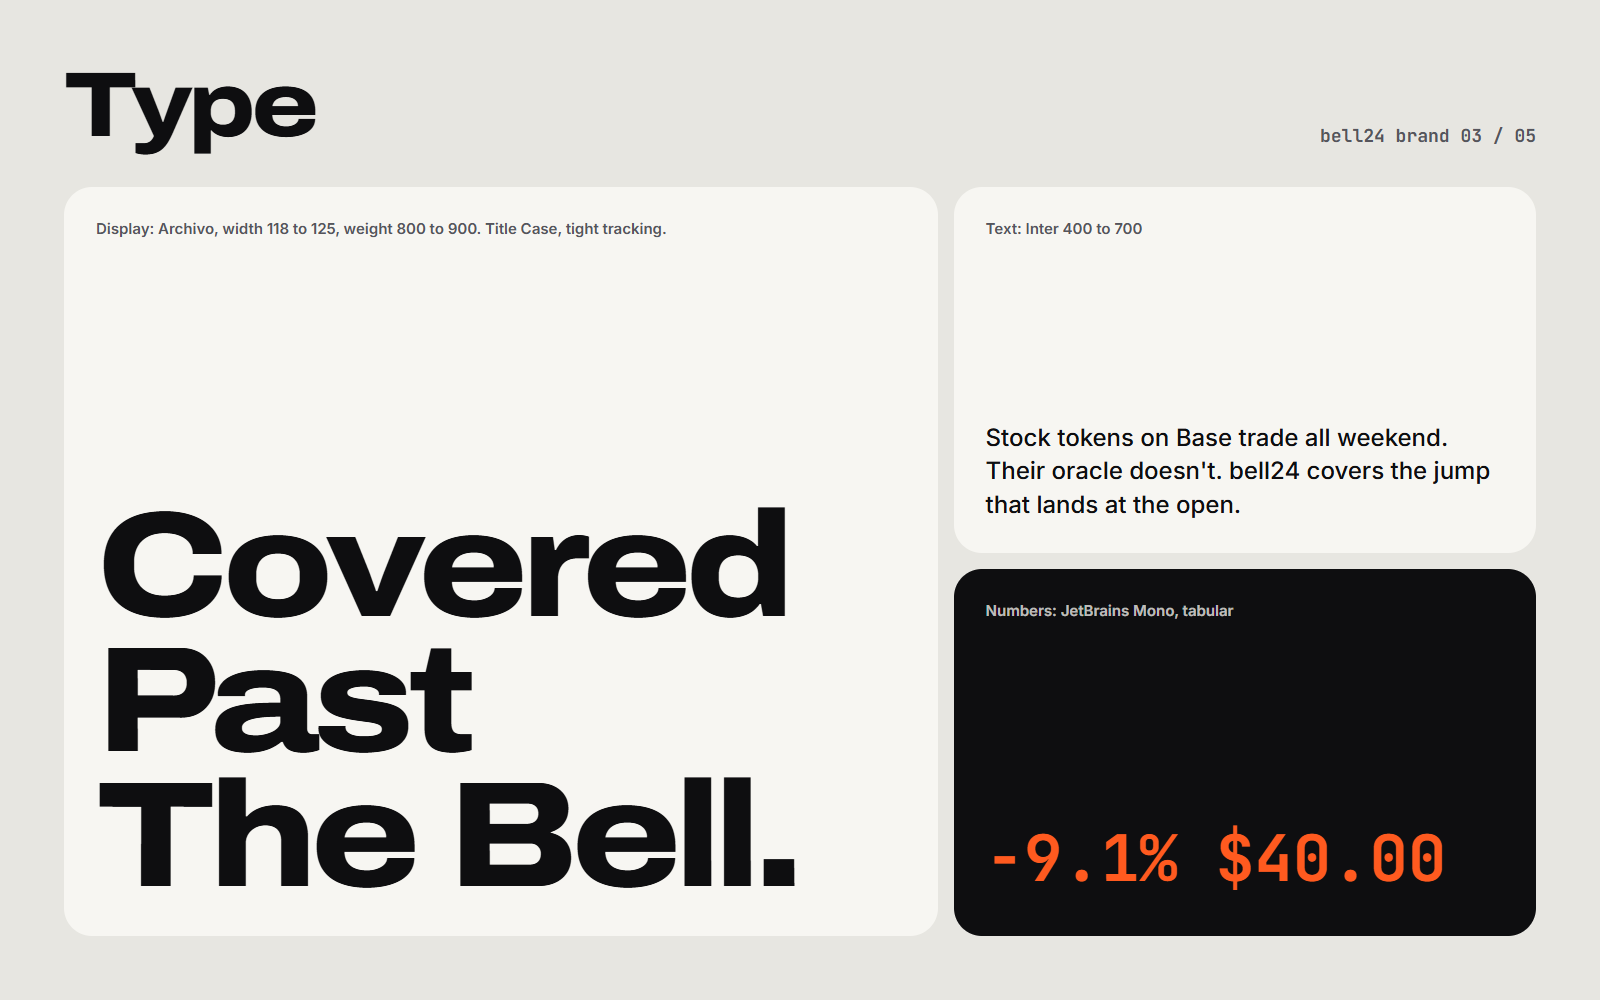
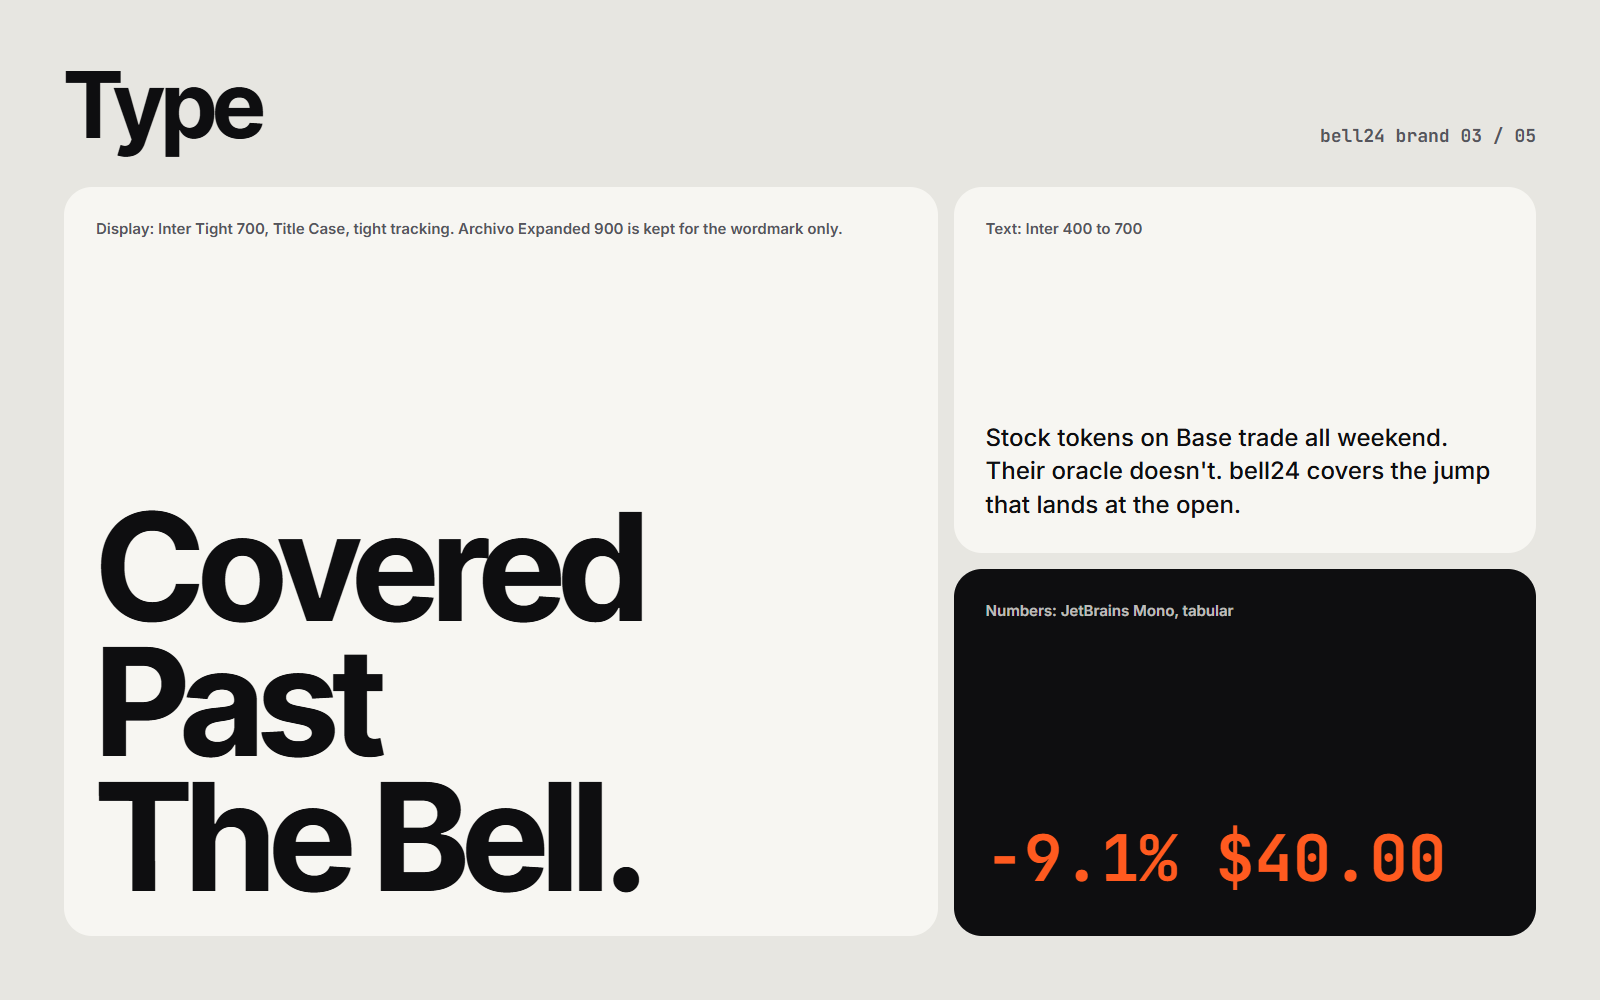
feat: inter tight for display type, archivo kept for the wordmark

diff --git a/web/src/index.css b/web/src/index.css
@@ -9,7 +9,8 @@
   --orange: #ff5a1f;
   --orange-soft: #ffe2d6;
   --r: 22px;
-  --display: 'Archivo', 'Inter', system-ui, sans-serif;
+  --display: 'Inter Tight', 'Inter', system-ui, sans-serif;
+  --wordmark: 'Archivo', 'Inter Tight', system-ui, sans-serif;
   --sans: 'Inter', system-ui, -apple-system, sans-serif;
   --mono: 'JetBrains Mono', ui-monospace, monospace;
   --gutter: clamp(16px, 3vw, 40px);
@@ -43,9 +44,8 @@ h1,
 h2,
 h3 {
   font-family: var(--display);
-  font-variation-settings: 'wdth' 116;
-  font-weight: 760;
-  letter-spacing: -0.035em;
+  font-weight: 700;
+  letter-spacing: -0.028em;
   line-height: 0.95;
   margin: 0;
 }
@@ -158,7 +158,7 @@ button {
   display: inline-flex;
   align-items: center;
   gap: 0.36em;
-  font-family: var(--display);
+  font-family: var(--wordmark);
   font-variation-settings: 'wdth' 125;
   font-weight: 900;
   letter-spacing: -0.04em;
@@ -297,10 +297,9 @@ button {
   background: radial-gradient(circle at 0 0, transparent calc(var(--nr) - 0.5px), var(--bg) var(--nr));
 }
 .hero-title {
-  font-size: clamp(46px, 8.2vw, 132px);
+  font-size: clamp(52px, 9.4vw, 150px);
   font-weight: 700;
-  font-variation-settings: 'wdth' 112;
-  letter-spacing: -0.04em;
+  letter-spacing: -0.035em;
   line-height: 0.92;
 }
 /* Room for descenders (g, p) inside SplitText's line masks, without changing the line spacing. */
@@ -417,7 +416,7 @@ button {
   padding: 18px 0;
 }
 .stat-v {
-  font: 800 clamp(52px, 5vw, 76px) / 0.9 var(--display);
+  font: 700 clamp(52px, 5vw, 76px) / 0.9 var(--display);
   font-variation-settings: 'wdth' 120;
   letter-spacing: -0.05em;
 }
@@ -478,7 +477,7 @@ button {
   min-width: 0;
 }
 .tk b {
-  font: 800 14px var(--display);
+  font: 700 14px var(--display);
   font-variation-settings: 'wdth' 112;
 }
 .tk i {
@@ -582,7 +581,7 @@ button {
   align-items: center;
   gap: 10px;
   padding: 0 34px;
-  font: 800 22px/1 var(--display);
+  font: 700 22px/1 var(--display);
   font-variation-settings: 'wdth' 112;
   letter-spacing: -0.03em;
   color: var(--ink);
@@ -607,7 +606,7 @@ button {
   display: flex;
   flex-direction: column;
   font-size: clamp(40px, 7.2vw, 124px);
-  letter-spacing: -0.05em;
+  letter-spacing: -0.035em;
   line-height: 1;
   gap: 0.06em;
   margin-bottom: clamp(48px, 6vw, 88px);
@@ -691,7 +690,7 @@ button {
 }
 .bars-title {
   fill: var(--ink);
-  font: 800 19px var(--display);
+  font: 700 19px var(--display);
   font-variation-settings: 'wdth' 115;
   letter-spacing: -0.02em;
 }
@@ -942,7 +941,7 @@ button {
   border-radius: 16px;
   border: 1.5px solid var(--line);
   background: transparent;
-  font: 800 26px/1 var(--display);
+  font: 700 26px/1 var(--display);
   font-variation-settings: 'wdth' 116;
   letter-spacing: -0.03em;
   transition:
@@ -1001,7 +1000,7 @@ button {
 }
 .aud-panel blockquote {
   margin: 0;
-  font: 800 clamp(24px, 2.4vw, 34px) / 1.06 var(--display);
+  font: 700 clamp(24px, 2.4vw, 34px) / 1.06 var(--display);
   font-variation-settings: 'wdth' 112;
   letter-spacing: -0.03em;
 }
@@ -1021,7 +1020,7 @@ button {
   display: flex;
   align-items: center;
   gap: 10px;
-  font: 800 20px var(--display);
+  font: 700 20px var(--display);
   font-variation-settings: 'wdth' 112;
 }
 .avh-logo {
@@ -1181,7 +1180,7 @@ button {
   color: var(--ink);
   border-radius: 10px;
   padding: 8px 12px;
-  font: 800 26px/1 var(--display);
+  font: 700 26px/1 var(--display);
   font-variation-settings: 'wdth' 118;
   letter-spacing: -0.03em;
 }
@@ -1373,7 +1372,7 @@ button {
   padding: 0 4px;
 }
 .foot-word {
-  font: 900 clamp(100px, 23vw, 360px) / 0.78 var(--display);
+  font: 900 clamp(100px, 23vw, 360px) / 0.78 var(--wordmark);
   font-variation-settings: 'wdth' 125;
   letter-spacing: -0.06em;
   text-align: center;
@@ -1423,7 +1422,7 @@ html.is-splash body {
 .splash-word {
   display: flex;
   overflow: hidden;
-  font: 900 clamp(56px, 9vw, 120px) / 1 var(--display);
+  font: 900 clamp(56px, 9vw, 120px) / 1 var(--wordmark);
   font-variation-settings: 'wdth' 125;
   letter-spacing: -0.05em;
   padding-bottom: 0.08em;

diff --git a/brand/source/kit.html b/brand/source/kit.html
@@ -16,9 +16,9 @@
   .orange { background: var(--orange); color: #fff; }
   .ink small, .blue small, .orange small { color: rgba(247,246,242,.75); }
   .center { align-items: center; justify-content: center; }
-  .sw b { font: 800 44px/1 'Archivo'; font-variation-settings: 'wdth' 118; letter-spacing: -0.03em; }
+  .sw b { font: 700 44px/1 'Inter Tight'; letter-spacing: -0.03em; }
   .sw code { font: 700 20px 'JetBrains Mono'; }
-  .rule { font: 700 26px/1.15 'Archivo'; font-variation-settings: 'wdth' 112; letter-spacing: -0.02em; }
+  .rule { font: 700 26px/1.15 'Inter Tight'; letter-spacing: -0.02em; }
   .x { font: 700 15px 'JetBrains Mono'; color: var(--orange); }
   canvas { position: absolute; inset: 0; width: 100%; height: 100%; }
   .btn { display: inline-flex; align-items: center; gap: 12px; height: 56px; padding: 0 24px; border-radius: 12px; background: var(--orange); color: #fff; font: 600 19px 'Inter'; }
@@ -53,7 +53,7 @@ if (s === 2) set('1.4fr 1fr 1fr', '1fr 1fr', [
 ].map(([n, h, c, u], i) => `<div class="card sw ${c === 'base' ? '' : c}" style="${i === 0 ? 'grid-row:span 2;' : ''}${c === 'base' ? 'background:#0000FF;color:#F7F6F2' : ''}${n === 'Canvas' ? 'background:#E7E6E1;outline:2px solid rgba(14,14,16,.12);outline-offset:-2px' : ''}"><small>${u}</small><div><b>${n}</b><br><code>${h}</code></div></div>`).join(''))
 
 if (s === 3) set('1.5fr 1fr', '1fr 1fr', `
-  <div class="card" style="grid-row:span 2"><small>Display: Archivo, width 118 to 125, weight 800 to 900. Title Case, tight tracking.</small><div class="display" style="font-size:150px">Covered Past<br>The Bell.</div></div>
+  <div class="card" style="grid-row:span 2"><small>Display: Inter Tight 700, Title Case, tight tracking. Archivo Expanded 900 is kept for the wordmark only.</small><div class="display" style="font-size:150px">Covered Past<br>The Bell.</div></div>
   <div class="card"><small>Text: Inter 400 to 700</small><p style="font-size:24px;margin:0;line-height:1.4">Stock tokens on Base trade all weekend. Their oracle doesn't. bell24 covers the jump that lands at the open.</p></div>
   <div class="card ink"><small>Numbers: JetBrains Mono, tabular</small><div class="mono" style="font-size:64px;font-weight:700;color:var(--orange)">−9.1%  $40.00</div></div>`)
 

diff --git a/brand/source/base.css b/brand/source/base.css
@@ -1,4 +1,4 @@
-@import url('https://fonts.googleapis.com/css2?family=Archivo:wdth,wght@112..125,500..900&family=Inter:wght@400;500;600;700&family=JetBrains+Mono:wght@500;700&display=swap');
+@import url('https://fonts.googleapis.com/css2?family=Archivo:wdth,wght@125,900&family=Inter+Tight:wght@500..800&family=Inter:wght@400;500;600;700&family=JetBrains+Mono:wght@500;700&display=swap');
 
 :root {
   --bg: #e7e6e1;
@@ -21,10 +21,9 @@ body {
   -webkit-font-smoothing: antialiased;
 }
 .display {
-  font-family: 'Archivo', sans-serif;
-  font-variation-settings: 'wdth' 118;
-  font-weight: 800;
-  letter-spacing: -0.045em;
+  font-family: 'Inter Tight', sans-serif;
+  font-weight: 700;
+  letter-spacing: -0.035em;
   line-height: 0.9;
 }
 .word {

diff --git a/web/index.html b/web/index.html
@@ -11,7 +11,7 @@
     <link rel="icon" type="image/svg+xml" href="/favicon.svg" />
     <link rel="preconnect" href="https://fonts.googleapis.com" />
     <link rel="preconnect" href="https://fonts.gstatic.com" crossorigin />
-    <link href="https://fonts.googleapis.com/css2?family=Archivo:wdth,wght@112..125,500..900&family=Inter:wght@400;500;600;700&family=JetBrains+Mono:wght@500;700&display=swap" rel="stylesheet" />
+    <link href="https://fonts.googleapis.com/css2?family=Archivo:wdth,wght@125,900&family=Inter+Tight:wght@500..800&family=Inter:wght@400;500;600;700&family=JetBrains+Mono:wght@500;700&display=swap" rel="stylesheet" />
   </head>
   <body>
     <div id="root"></div>

diff --git a/README.md b/README.md
@@ -76,7 +76,7 @@ web/src
 <p align="center"><img src="brand/kit/01-logo.png" width="49%" alt="Logo"> <img src="brand/kit/02-colour.png" width="49%" alt="Colour"></p>
 <p align="center"><img src="brand/kit/03-type.png" width="49%" alt="Type"> <img src="brand/kit/04-usage.png" width="49%" alt="Usage"></p>
 
-Signal Blue `#2B4BFF`, Gap Orange `#FF5A1F`, Ink `#0E0E10`, Paper `#F7F6F2`, Canvas `#E7E6E1`. Archivo for display, Inter for text, JetBrains Mono for numbers. Logos, the kit, banners and social art live in [`brand/`](brand).
+Signal Blue `#2B4BFF`, Gap Orange `#FF5A1F`, Ink `#0E0E10`, Paper `#F7F6F2`, Canvas `#E7E6E1`. Inter Tight for display, Inter for text, JetBrains Mono for numbers, Archivo Expanded for the wordmark only. Logos, the kit, banners and social art live in [`brand/`](brand).
 
 ## Naming
 

diff --git a/brand/README.md b/brand/README.md
@@ -28,7 +28,7 @@ The lockup SVGs keep the wordmark as live Archivo text (loaded from Google Fonts
 | Canvas | `#E7E6E1` | page ground |
 | Base Blue | `#0000FF` | only inside the Base mark |
 
-Archivo (width 118 to 125, weight 800 to 900) for display in Title Case, Inter for text, JetBrains Mono for numbers. All three are SIL OFL.
+Inter Tight 700 for display in Title Case, Inter for text, JetBrains Mono for numbers. Archivo Expanded 900 is reserved for the wordmark. All four are SIL OFL.
 
 ## Rules
 
